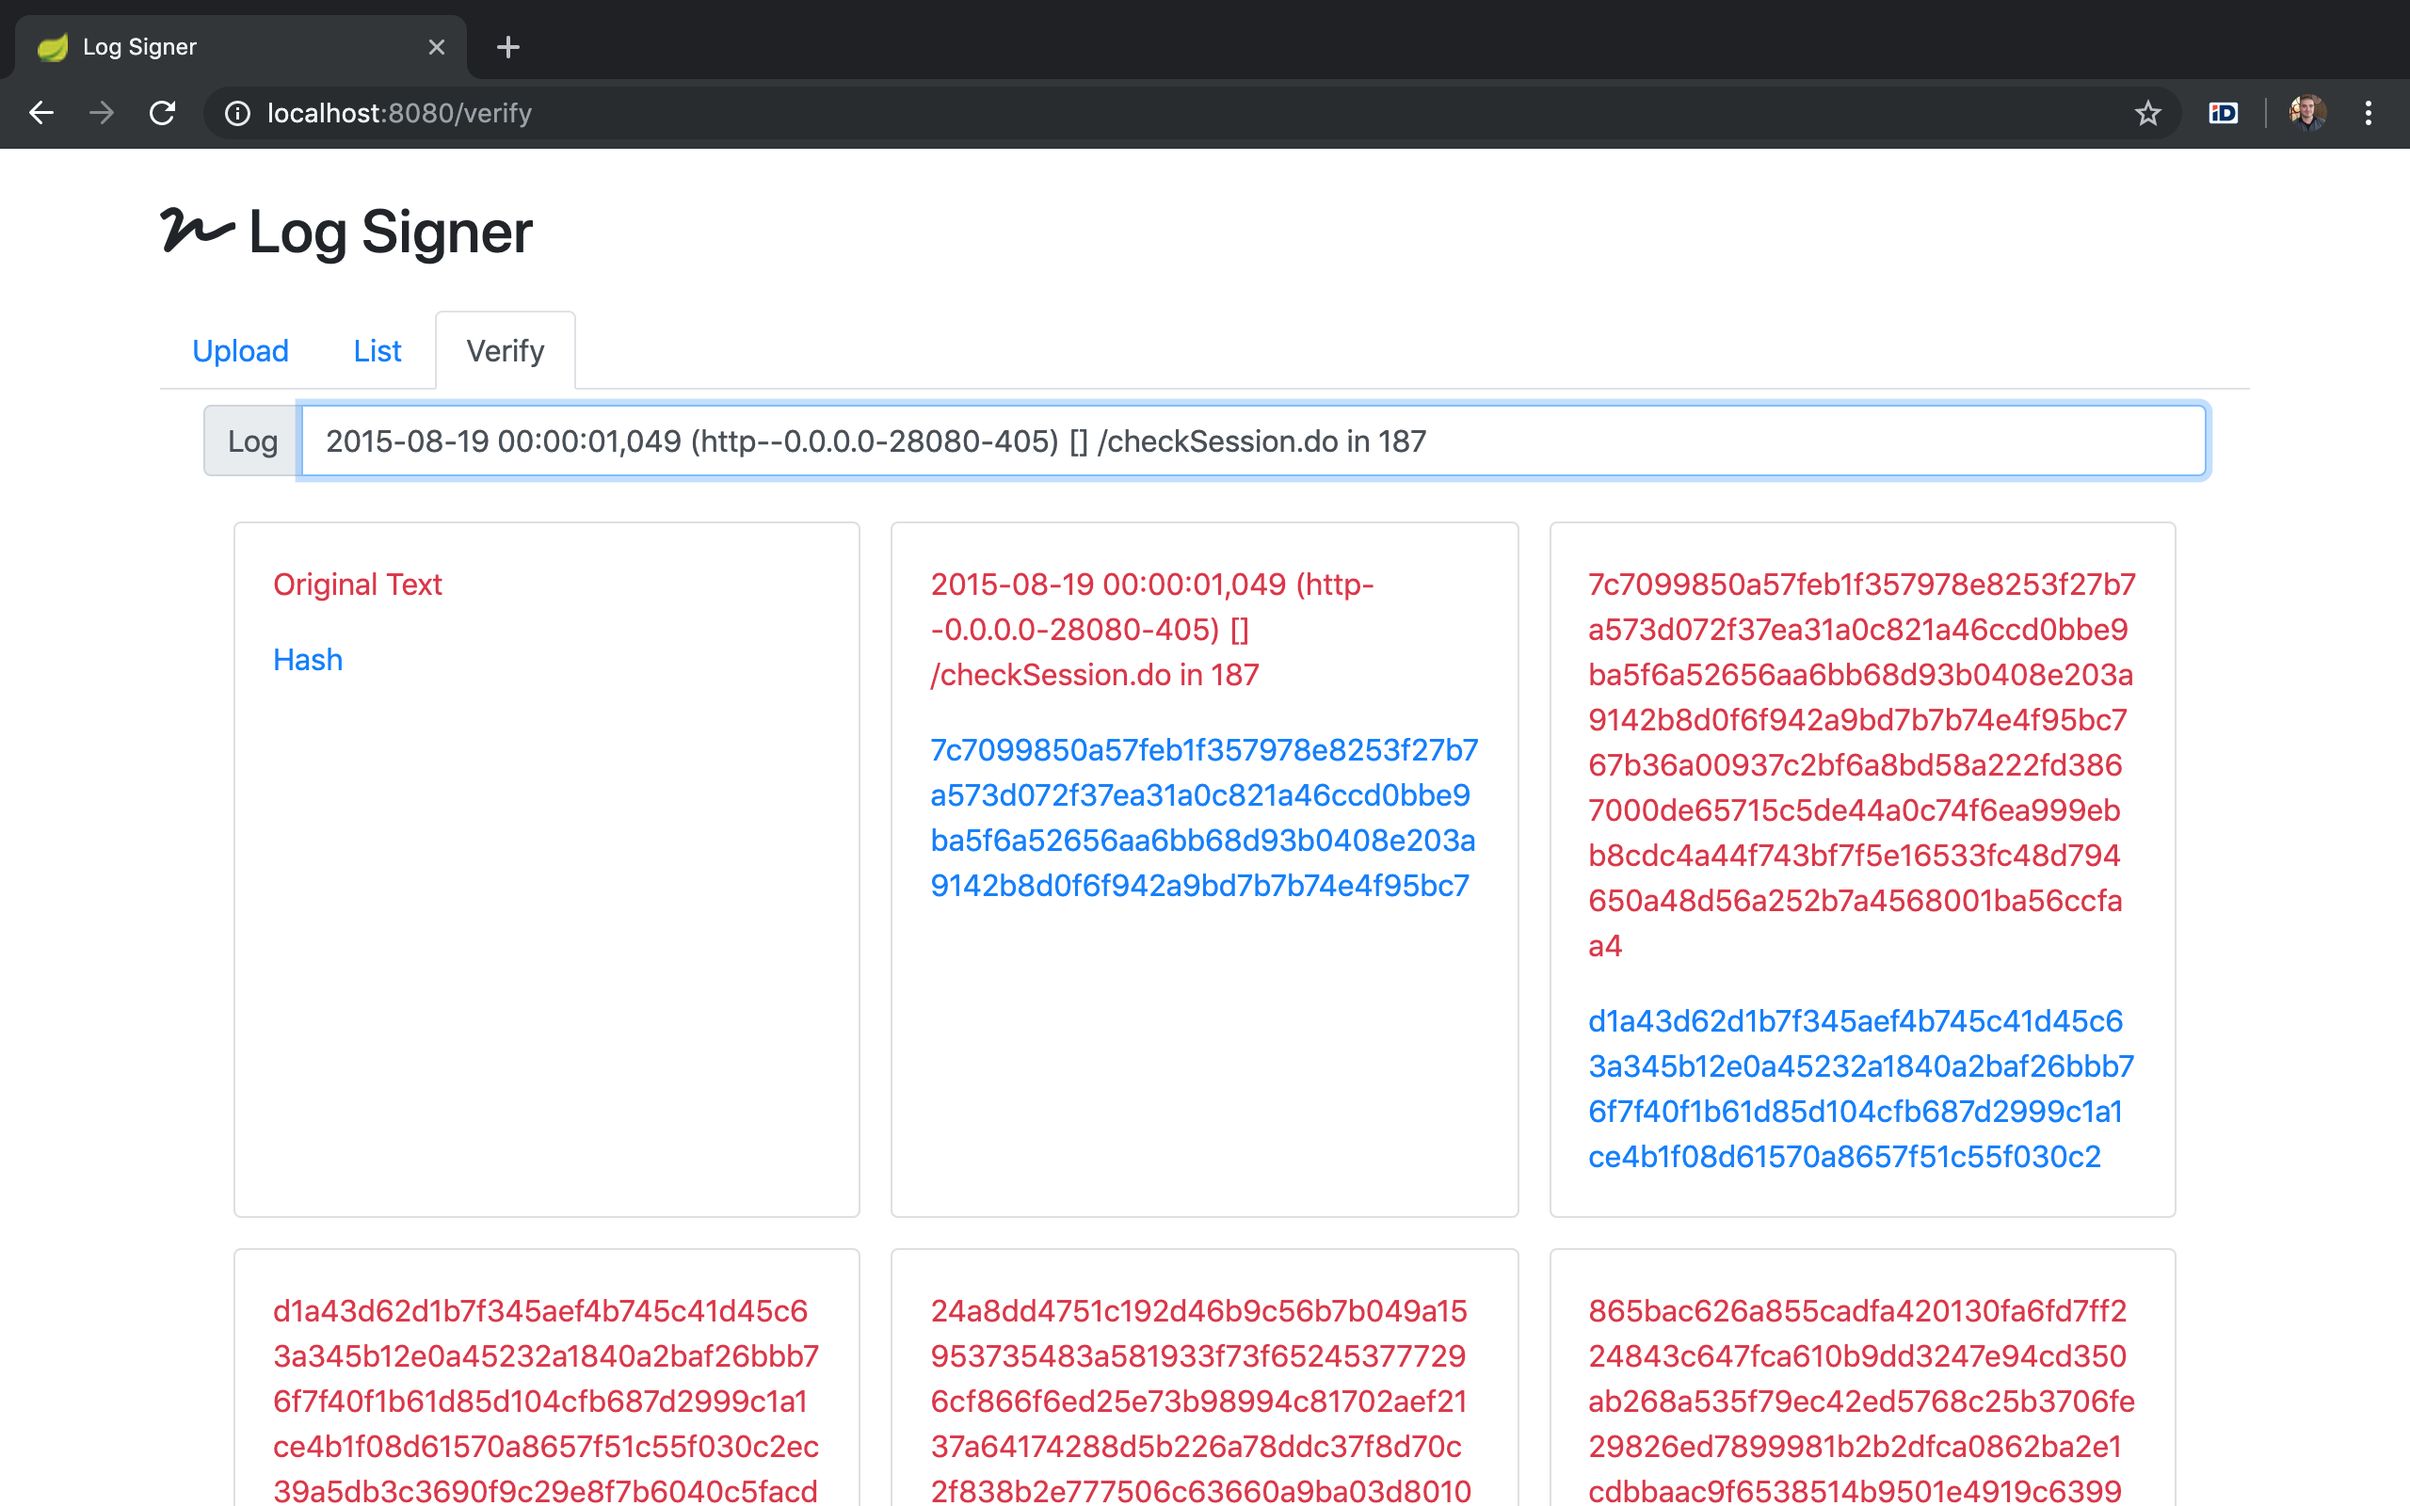
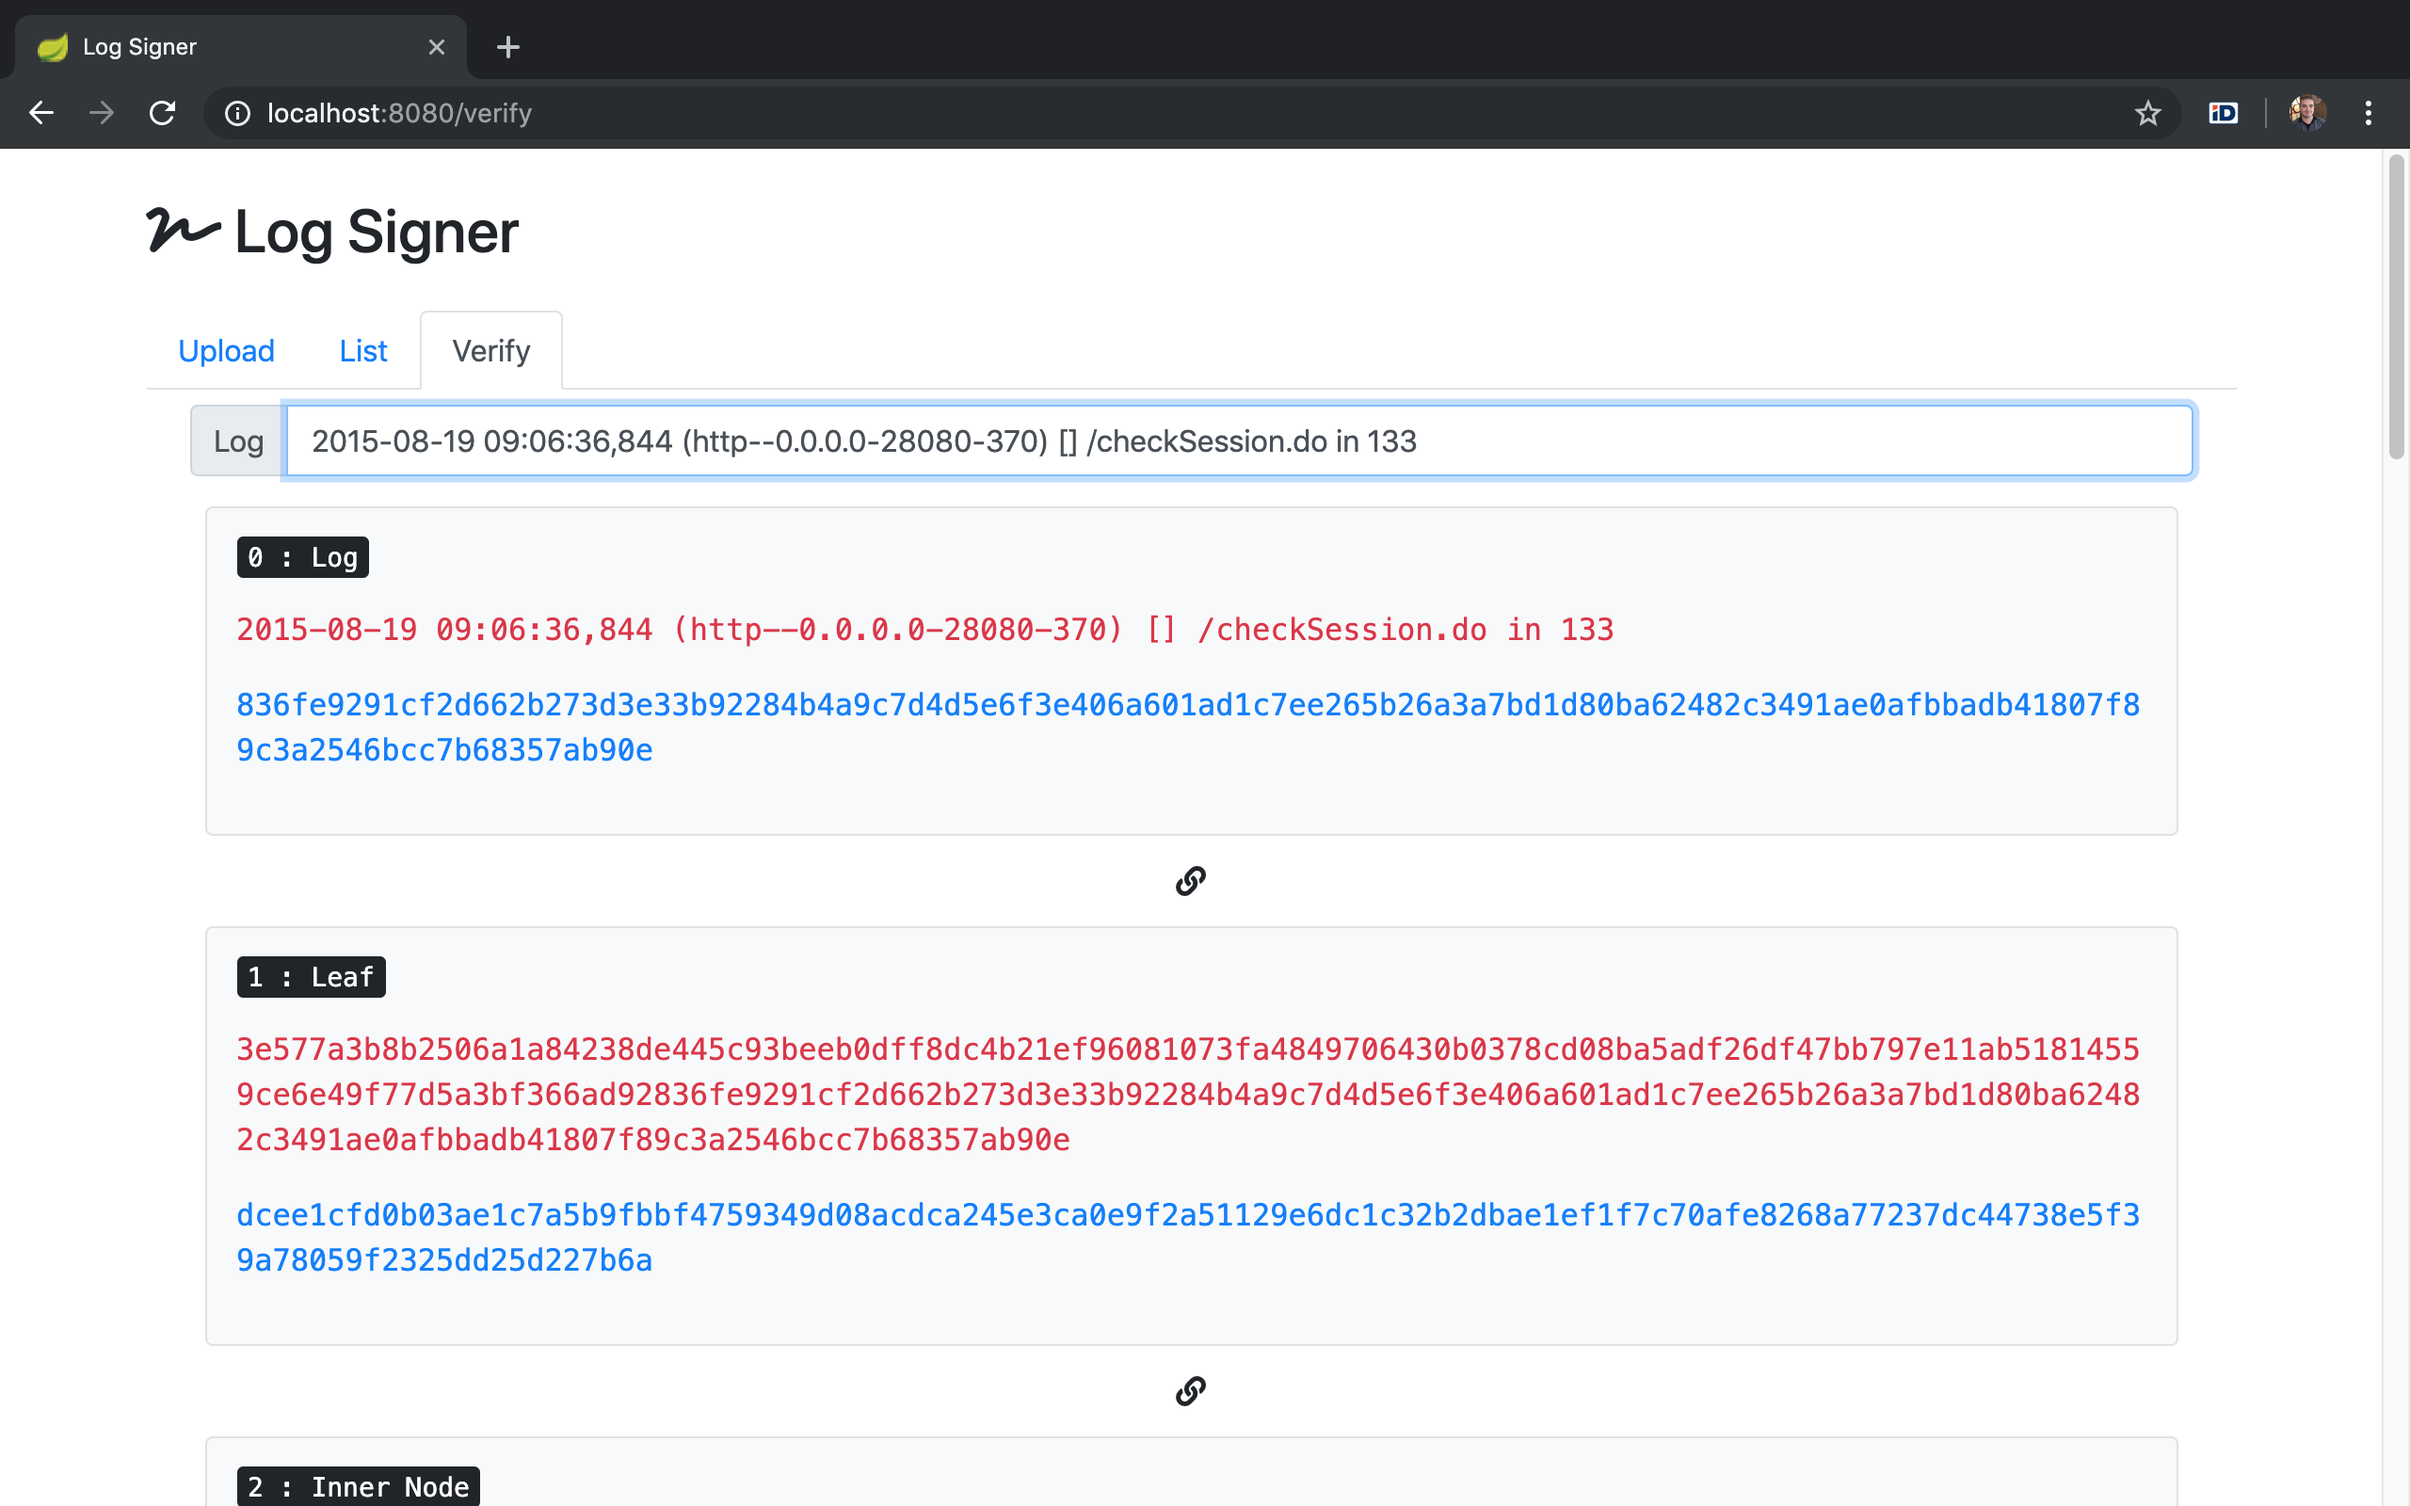
changed layout

diff --git a/src/main/resources/templates/verify.html b/src/main/resources/templates/verify.html
@@ -40,26 +40,49 @@
 				</div>
 			</form>
 			<p class="alert alert-danger m-3" role="alert" th:if="${error}" th:text="${error}"></p>
-			<div class="card-deck m-3">
-				<div class="card m-2" style="min-width:256px;">
-					<div class="card-body">
-						<p class="card-text text-danger">
+			<div th:unless="${logVerificationList}">
+				<div class="row m-3 border rounded bg-light">
+					<div class="col p-3">
+						<p class="font-weight-bold">
+							Example Layout
+						</p>
+						<p class="text-danger text-monospace">
 							Original Text
 						</p>
-						<p class="card-text text-primary">
+						<p class="text-primary text-monospace">
 							Hash
 						</p>
 					</div>
 				</div>
-				<div class="card m-2" style="min-width:256px;"
-					 th:each="logVerification : ${logVerificationList}">
-					<div class="card-body">
-						<p class="card-text text-danger" th:text="${logVerification.value}">
+				<p class="text-center"><i class="fa fa-link" aria-hidden="true"></i></p>
+			</div>
+			<div th:each="logVerification, iter : ${logVerificationList}">
+				<div class="row m-3 border rounded bg-light">
+					<div class="col p-3">
+						<p class="text-monospace">
+							<kbd>
+								<span th:text="${iter.index}"/> :
+								<span th:if="${iter.first}">
+									Log
+								</span>
+								<span th:if="${iter.index==1}">
+									Leaf
+								</span>
+								<span th:if="${iter.index>1&&!iter.last}">
+									Inner Node
+								</span>
+								<span th:if="${iter.last}">
+									Root
+								</span>
+							</kbd>
 						</p>
-						<p class="card-text text-primary" th:text="${logVerification.key}">
+						<p class="text-danger text-monospace text-break" th:text="${logVerification.value}">
+						</p>
+						<p class="text-primary text-monospace text-break" th:text="${logVerification.key}">
 						</p>
 					</div>
 				</div>
+				<p th:unless="${iter.last}" class="text-center"><i class="fa fa-link" aria-hidden="true"></i></p>
 			</div>
 		</div>
 	</div>

diff --git a/README.md b/README.md
@@ -11,6 +11,8 @@
 ###### 3. You could verify any log line in the log file by viewing merkle path of the log line.
 ![Verify](images/screenshot_3.png "Verify")
 
+![Verify2](images/screenshot_4.png "Verify2")
+
 ## Introduction
 There are several possibilities to sign a log file. One could:
 1. Sign the file as a whole
